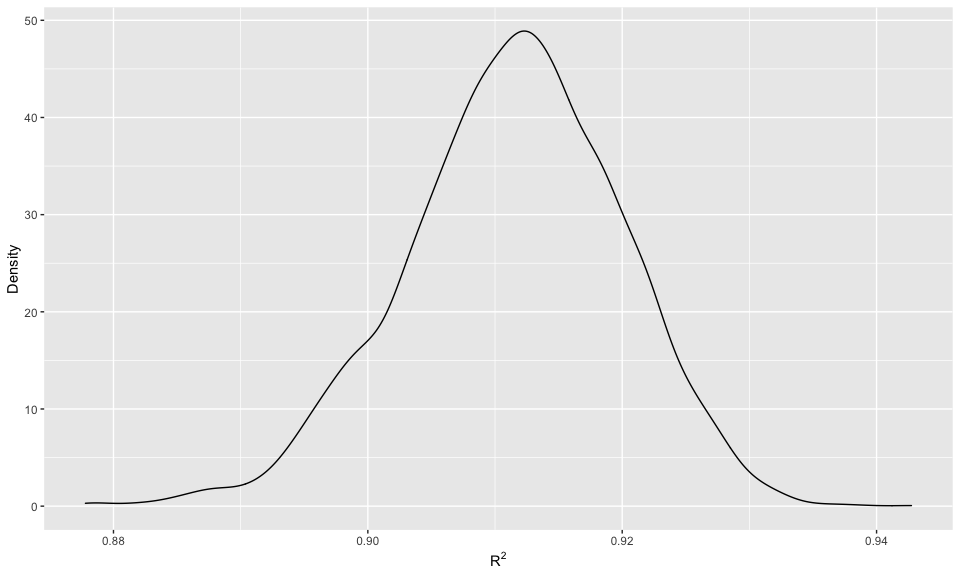
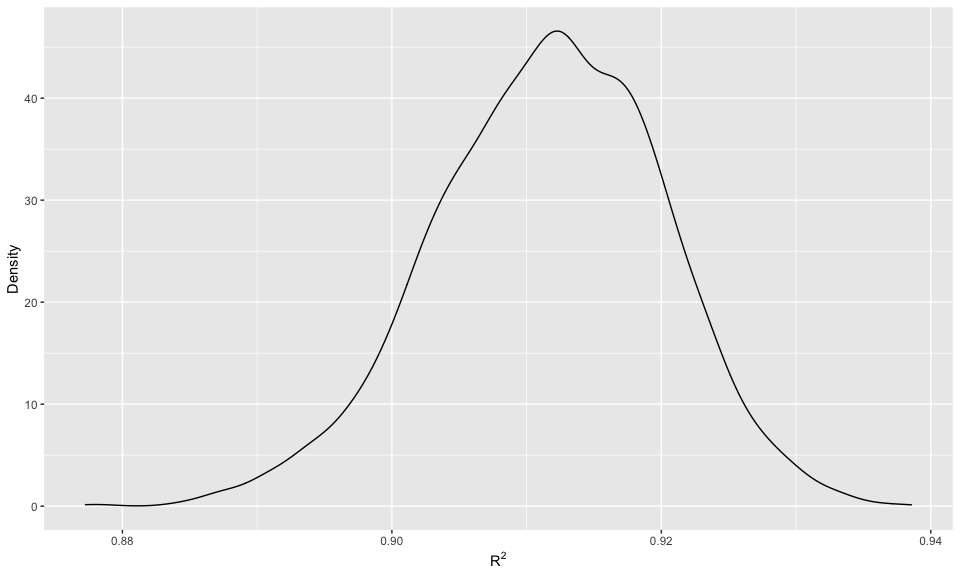
Added description for density plot

diff --git a/p8105_hw6_pm3148.md b/p8105_hw6_pm3148.md
@@ -550,8 +550,8 @@ bootstrap_results%>%
 
 | quantity    | ci\_lower | ci\_upper |
 |:------------|----------:|----------:|
-| log\_b0\_b1 | 7.1248243 | 7.8383647 |
-| r.squared   | 0.8937916 | 0.9271207 |
+| log\_b0\_b1 | 7.1435869 | 7.8356506 |
+| r.squared   | 0.8938606 | 0.9272512 |
 
 Let’s plot the distribution of the estimates. First look at the
 distribution for *R*<sup>2</sup>.
@@ -564,6 +564,9 @@ bootstrap_results%>%
 ```
 
 <img src="p8105_hw6_pm3148_files/figure-gfm/unnamed-chunk-17-1.png" width="90%" />
+Distributions for *R*<sup>2</sup> is fairly uniform. This makes sense
+because it is a sample of n = 5000 so we would expect a normal
+distribution.
 
 Now let’s look at the distribution plot for
 *l**o**g*(*β̂*<sub>0</sub> \* *β̂*<sub>1</sub>)
@@ -575,3 +578,7 @@ bootstrap_results%>%
 ```
 
 <img src="p8105_hw6_pm3148_files/figure-gfm/unnamed-chunk-18-1.png" width="90%" />
+
+The distribution for *l**o**g*(*β̂*<sub>0</sub> \* *β̂*<sub>1</sub>) is
+also fairly normal.This makes sense because it is a sample of n = 5000
+so we would expect a normal distribution.
